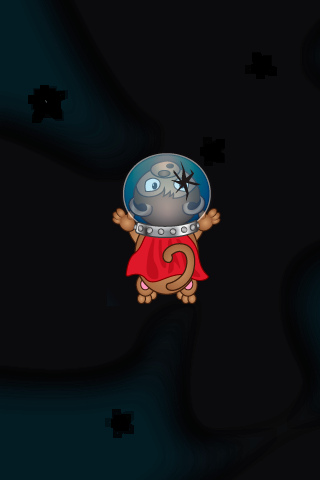
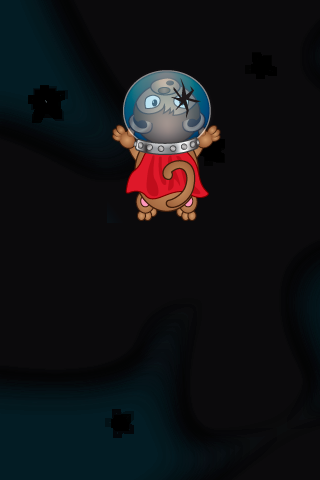
added mobile version

Changed region(s): [[0.3438, 0.125, 0.6875, 0.6562]]

diff --git a/SpaceMonkeyMobile/web-export/index.html b/SpaceMonkeyMobile/web-export/index.html
@@ -94,7 +94,7 @@ function getProcessingSketchId () { return 'sketch130611e'; }
 		<div id="content">
 			<div align="left">
        			<canvas id="SpaceMonkeyMobile" data-processing-sources="SpaceMonkeyMobile.pde"
-             width="320" height="450" class="mycanvas">
+             width="320" height="420" class="mycanvas">
 
 					<p>Your browser does not support the canvas tag.</p>
 					<!-- Note: you can put any alternative content here. -->

diff --git a/SpaceMonkeyWeb/template/template.html b/SpaceMonkeyWeb/template/template.html
@@ -40,7 +40,7 @@
 	.mycanvas{
 		margin:0 auto;
 	width:320px,
-	height:450px;
+	height:420px;
 	}
 		#back{
 		position: absolute;
